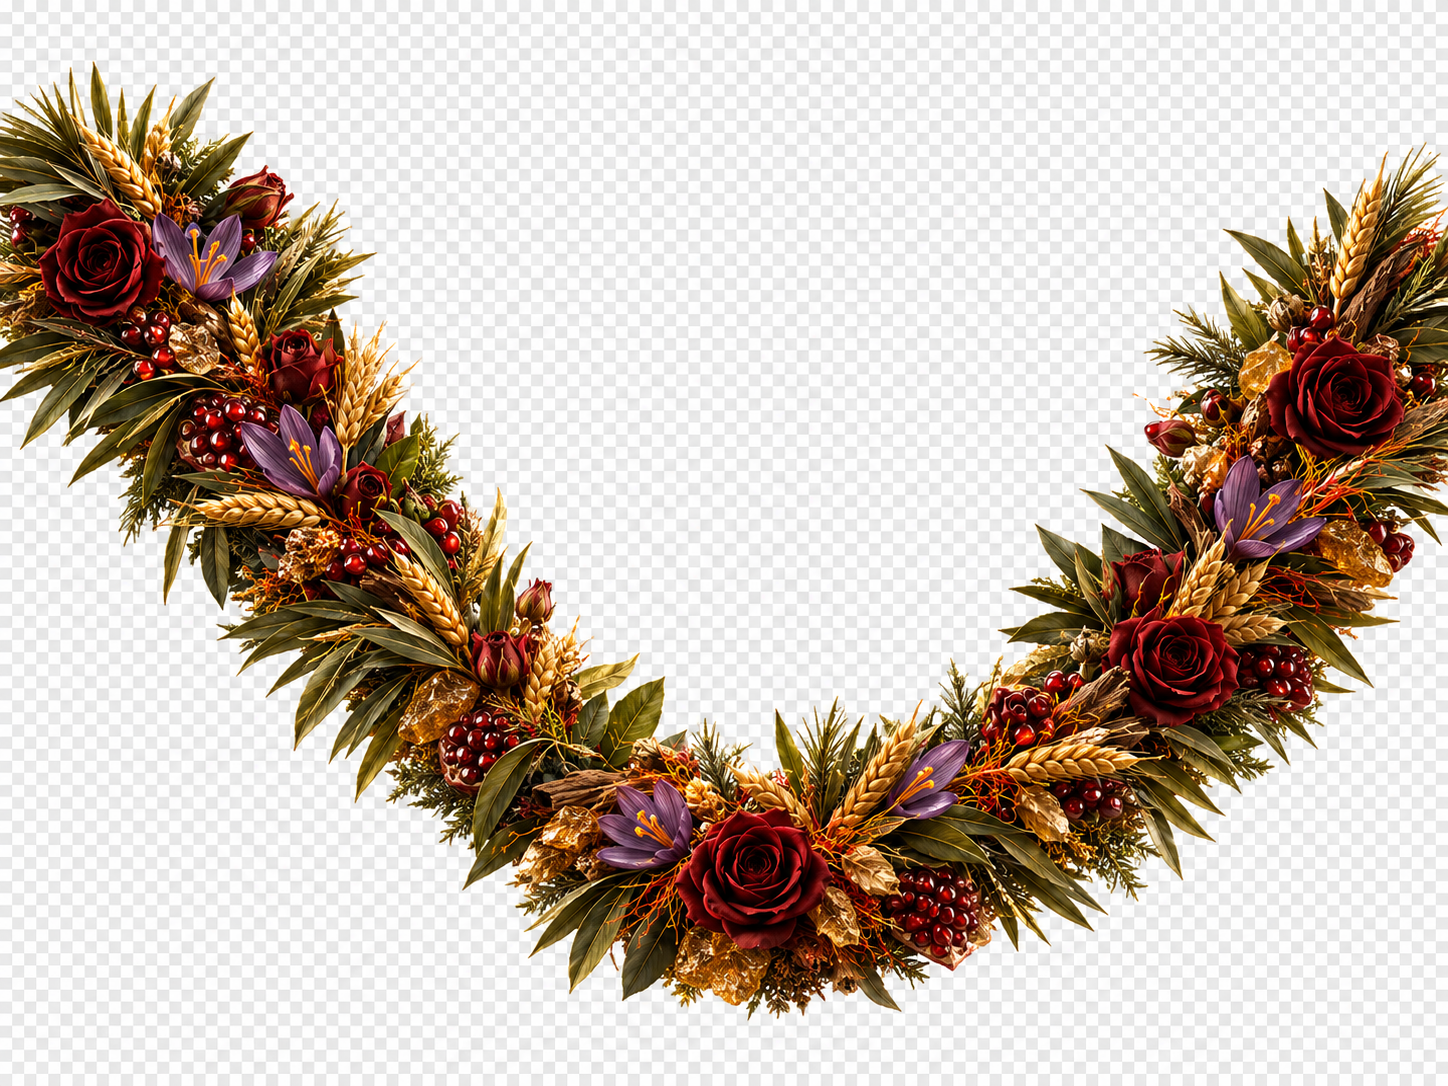
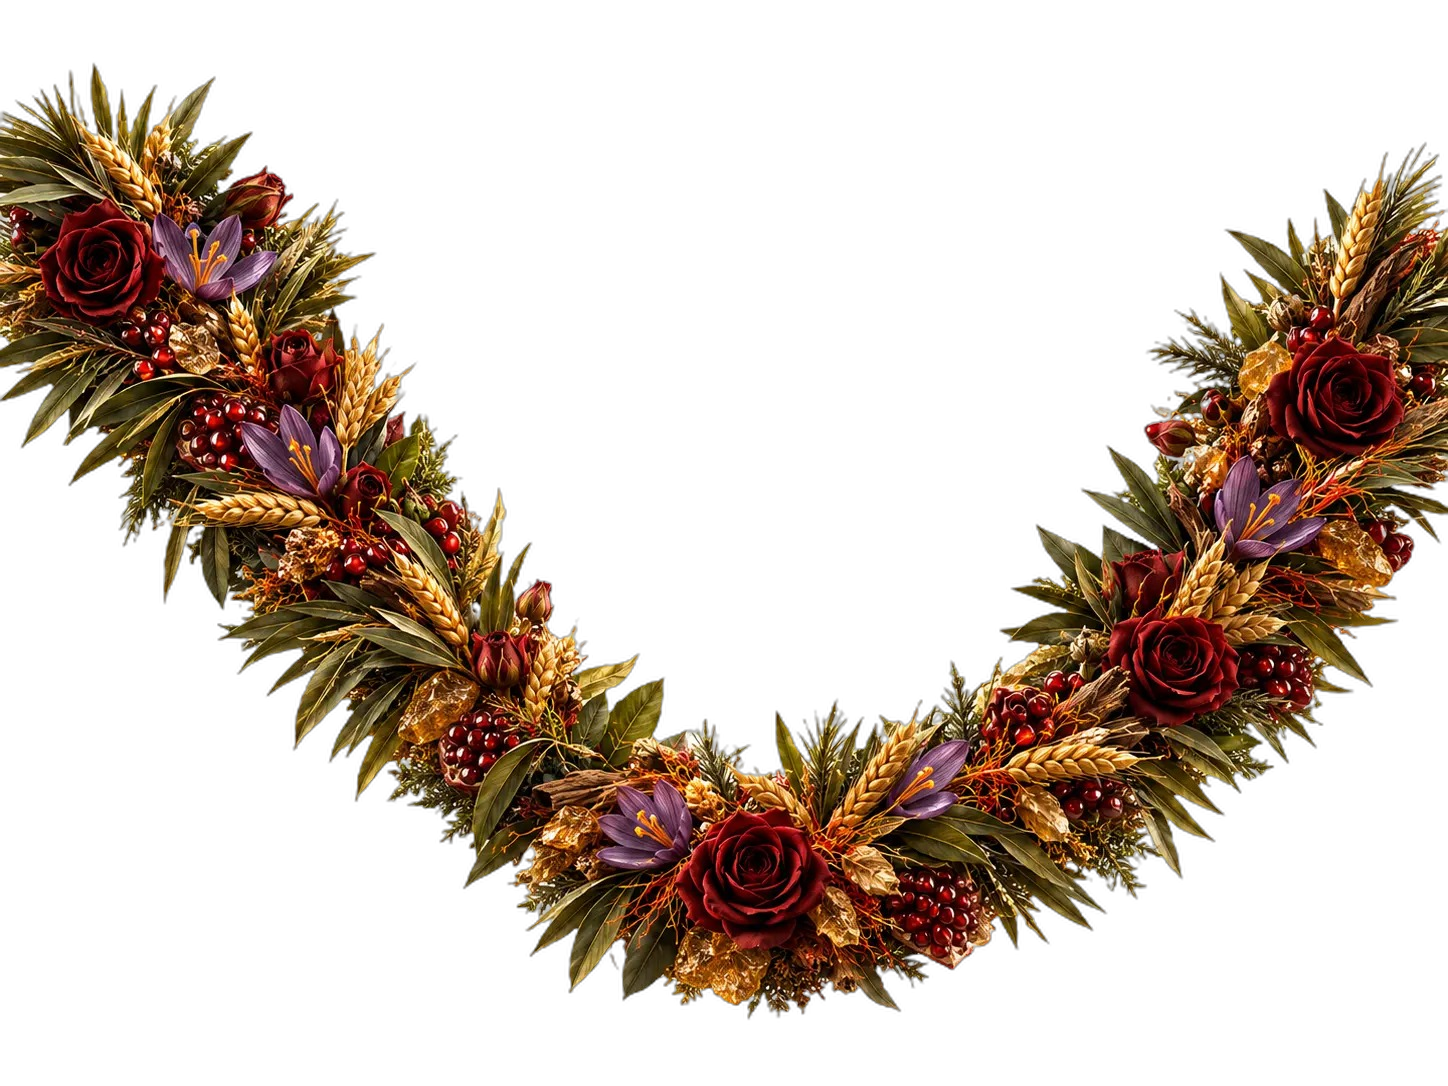
v3

Changed region(s): [[0.0, 0.0, 1.0, 1.0], [0.1243, 0.7901, 0.1554, 0.8204], [0.0311, 0.7901, 0.0622, 0.8204]]

diff --git a/components/home/Hero/HeroScene.tsx b/components/home/Hero/HeroScene.tsx
@@ -137,7 +137,7 @@ export function HeroScene({
         fill
         sizes="100vw"
         aria-hidden="true"
-        className="pointer-events-none object-cover object-center"
+        className="pointer-events-none object-cover object-bottom md:object-center"
       />
 
       {/* Egypt cheetah — pinned to bottom-right corner */}
@@ -148,7 +148,7 @@ export function HeroScene({
         width={300}
         height={400}
         aria-hidden="true"
-        className="pointer-events-none absolute bottom-0 right-10 w-[clamp(150px,20vw,300px)] h-auto object-contain object-bottom"
+        className="pointer-events-none absolute bottom-0 right-10 w-[clamp(100px,30vw,180px)] md:w-[clamp(120px,18vw,250px)] lg:w-[clamp(150px,20vw,300px)] h-auto object-contain object-bottom"
       />
 
       {/* Babylon plate */}
@@ -168,18 +168,18 @@ export function HeroScene({
         fill
         sizes="100vw"
         aria-hidden="true"
-        className="pointer-events-none object-cover object-center"
+        className="pointer-events-none object-cover object-bottom md:object-center"
       />
 
       {/* Babylon cheetah — pinned to bottom-right corner */}
       <Image
         ref={babylonCheetahRef}
-        src="/images/sections/ch_2.png"
+        src="/images/sections/ch_1.png"
         alt=""
         width={300}
         height={400}
         aria-hidden="true"
-        className="pointer-events-none absolute bottom-0 right-10 w-[clamp(150px,20vw,300px)] h-auto object-contain object-bottom"
+        className="pointer-events-none absolute bottom-0 right-10 w-[clamp(100px,30vw,180px)] md:w-[clamp(120px,18vw,250px)] lg:w-[clamp(150px,20vw,300px)] h-auto object-contain object-bottom"
       />
 
       {/* Greece plate */}
@@ -199,18 +199,18 @@ export function HeroScene({
         fill
         sizes="100vw"
         aria-hidden="true"
-        className="pointer-events-none object-cover object-center"
+        className="pointer-events-none object-cover object-bottom md:object-center"
       />
 
       {/* Greece cheetah — pinned to bottom-right corner */}
       <Image
         ref={greeceCheetahRef}
-        src="/images/sections/ch_3.png"
+        src="/images/sections/ch_1.png"
         alt=""
         width={300}
         height={400}
         aria-hidden="true"
-        className="pointer-events-none absolute bottom-0 right-10 w-[clamp(150px,20vw,300px)] h-auto object-contain object-bottom"
+        className="pointer-events-none absolute bottom-0 right-10 w-[clamp(100px,30vw,180px)] md:w-[clamp(120px,18vw,250px)] lg:w-[clamp(150px,20vw,300px)] h-auto object-contain object-bottom"
       />
 
       {/* China plate */}
@@ -230,20 +230,26 @@ export function HeroScene({
         fill
         sizes="100vw"
         aria-hidden="true"
-        className="pointer-events-none object-cover object-center"
+        className="pointer-events-none object-cover object-bottom md:object-center"
       />
 
       {/* China cheetah — pinned to bottom-right corner */}
       <Image
         ref={chinaCheetahRef}
-        src="/images/sections/ch_4.png"
+        src="/images/sections/ch_1.png"
         alt=""
         width={300}
         height={400}
         aria-hidden="true"
-        className="pointer-events-none absolute bottom-0 right-10 w-[clamp(150px,20vw,300px)] h-auto object-contain object-bottom"
+        className="pointer-events-none absolute bottom-0 right-10 w-[clamp(100px,30vw,180px)] md:w-[clamp(120px,18vw,250px)] lg:w-[clamp(150px,20vw,300px)] h-auto object-contain object-bottom"
       />
 
+      {/* ── The MIST WALL ──────────────────────────────────────────────────
+          Lives ABOVE every plate, pedestal, and cheetah, but BELOW the
+          bottle. When a transition fires, the mist sweeps over EVERYTHING
+          (including the pedestals), so the "checkered" transparency of the
+          outgoing plate is never visible through the mist. The bottle stays
+          sharp because it paints on top. */}
       <HeroMist ref={mistRef} isMobile={frame.isMobile} />
 
       <div

diff --git a/components/home/Hero/BabylonCopy.tsx b/components/home/Hero/BabylonCopy.tsx
@@ -29,12 +29,11 @@ export function BabylonCopy({ copyRef }: BabylonCopyProps) {
     <div
       ref={copyRef}
       dir={isArabic ? "rtl" : "ltr"}
-      className="pointer-events-none absolute z-30 flex flex-col items-start justify-center gap-5 px-6 text-start md:px-12"
+      className="pointer-events-none absolute z-30 flex flex-col items-start justify-center gap-5 px-4 text-start w-[min(92vw,24rem)] md:w-[min(85vw,28rem)] lg:w-[min(80vw,34rem)] md:px-8 lg:px-12"
       style={{
         insetInlineStart: 0,
         top: 0,
         bottom: 0,
-        width: "min(90vw, 34rem)",
         opacity: 0,
         visibility: "hidden",
       }}

diff --git a/components/home/Hero/GreeceCopy.tsx b/components/home/Hero/GreeceCopy.tsx
@@ -26,12 +26,11 @@ export function GreeceCopy({ copyRef }: GreeceCopyProps) {
     <div
       ref={copyRef}
       dir={isArabic ? "rtl" : "ltr"}
-      className="pointer-events-none absolute z-30 flex flex-col items-start justify-center gap-5 px-6 text-start md:px-12"
+      className="pointer-events-none absolute z-30 flex flex-col items-start justify-center gap-5 px-4 text-start w-[min(92vw,24rem)] md:w-[min(85vw,28rem)] lg:w-[min(80vw,34rem)] md:px-8 lg:px-12"
       style={{
         insetInlineStart: 0,
         top: 0,
         bottom: 0,
-        width: "min(90vw, 34rem)",
         opacity: 0,
         visibility: "hidden",
       }}

diff --git a/components/home/Hero/EgyptCopy.tsx b/components/home/Hero/EgyptCopy.tsx
@@ -29,11 +29,9 @@ export function EgyptCopy({ copyRef }: EgyptCopyProps) {
     <div
       ref={copyRef}
       dir={isArabic ? "rtl" : "ltr"}
-      className="pointer-events-none absolute z-30 flex flex-col items-start gap-5 px-6 text-start md:px-12"
+      className="pointer-events-none absolute z-30 flex flex-col items-start gap-5 px-4 text-start bottom-[4vh] md:bottom-[6vh] lg:bottom-[8vh] w-[min(92vw,24rem)] md:w-[min(85vw,28rem)] lg:w-[min(80vw,34rem)] md:px-8 lg:px-12"
       style={{
         insetInlineStart: 0,
-        bottom: "6vh",
-        width: "min(90vw, 34rem)",
         opacity: 0,
         visibility: "hidden",
       }}

diff --git a/components/home/Hero/ChinaCopy.tsx b/components/home/Hero/ChinaCopy.tsx
@@ -26,12 +26,11 @@ export function ChinaCopy({ copyRef }: ChinaCopyProps) {
     <div
       ref={copyRef}
       dir={isArabic ? "rtl" : "ltr"}
-      className="pointer-events-none absolute z-30 flex flex-col items-start justify-center gap-5 px-6 text-start md:px-12"
+      className="pointer-events-none absolute z-30 flex flex-col items-start justify-center gap-5 px-4 text-start w-[min(92vw,24rem)] md:w-[min(85vw,28rem)] lg:w-[min(80vw,34rem)] md:px-8 lg:px-12"
       style={{
         insetInlineStart: 0,
         top: 0,
         bottom: 0,
-        width: "min(90vw, 34rem)",
         opacity: 0,
         visibility: "hidden",
       }}
